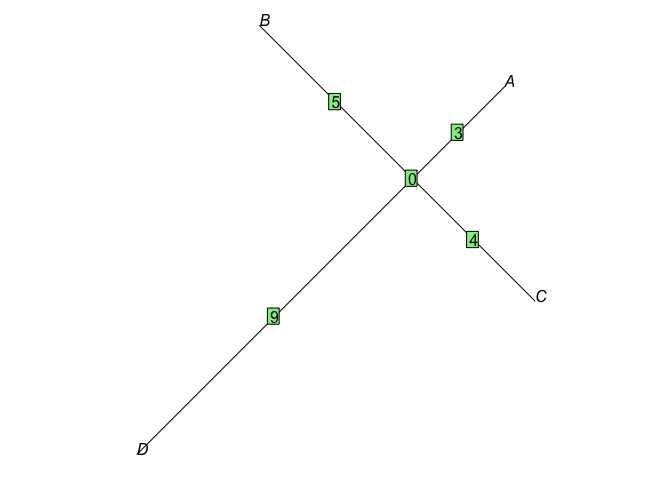
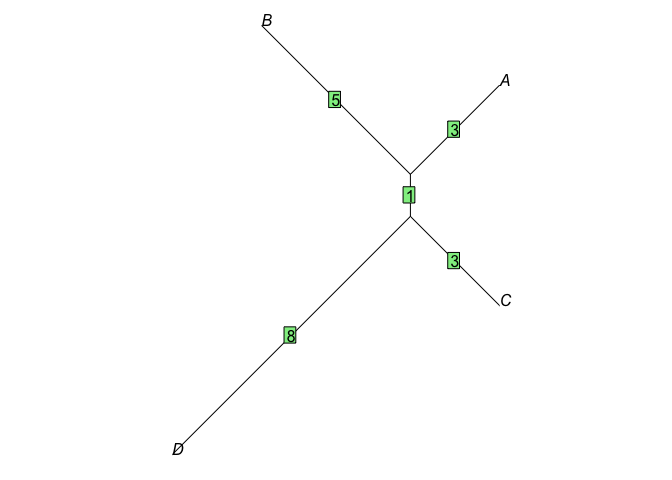
correct data

diff --git a/Lab1.md b/Lab1.md
@@ -37,7 +37,7 @@ the matrix of pairwise distances.
     ##    A  B  C
     ## B  8      
     ## C  7  9   
-    ## D 12 14 13
+    ## D 12 14 11
 
 **Question 1 :** what does this matrix tell us?
 
@@ -171,17 +171,17 @@ The result is:
     ## unconstrained loglikelihood: -1230.335 
     ## Discrete gamma model
     ## Number of rate categories: 4 
-    ## Shape parameter: 5.981041 
+    ## Shape parameter: 5.984577 
     ## 
     ## Rate matrix:
     ##          a        c        g        t
-    ## a  0.00000  1.00000 27.00937  1.00000
-    ## c  1.00000  0.00000  1.00000 27.00937
-    ## g 27.00937  1.00000  0.00000  1.00000
-    ## t  1.00000 27.00937  1.00000  0.00000
+    ## a  0.00000  1.00000 27.00947  1.00000
+    ## c  1.00000  0.00000  1.00000 27.00947
+    ## g 27.00947  1.00000  0.00000  1.00000
+    ## t  1.00000 27.00947  1.00000  0.00000
     ## 
     ## Base frequencies:  
-    ## 0.401322 0.3738029 0.04584205 0.179033
+    ## 0.4013361 0.3738212 0.04585888 0.1789839
 
 Tips: you can use the command `str(fitHKY)` to list all available items
 inside “fitHKY”.
